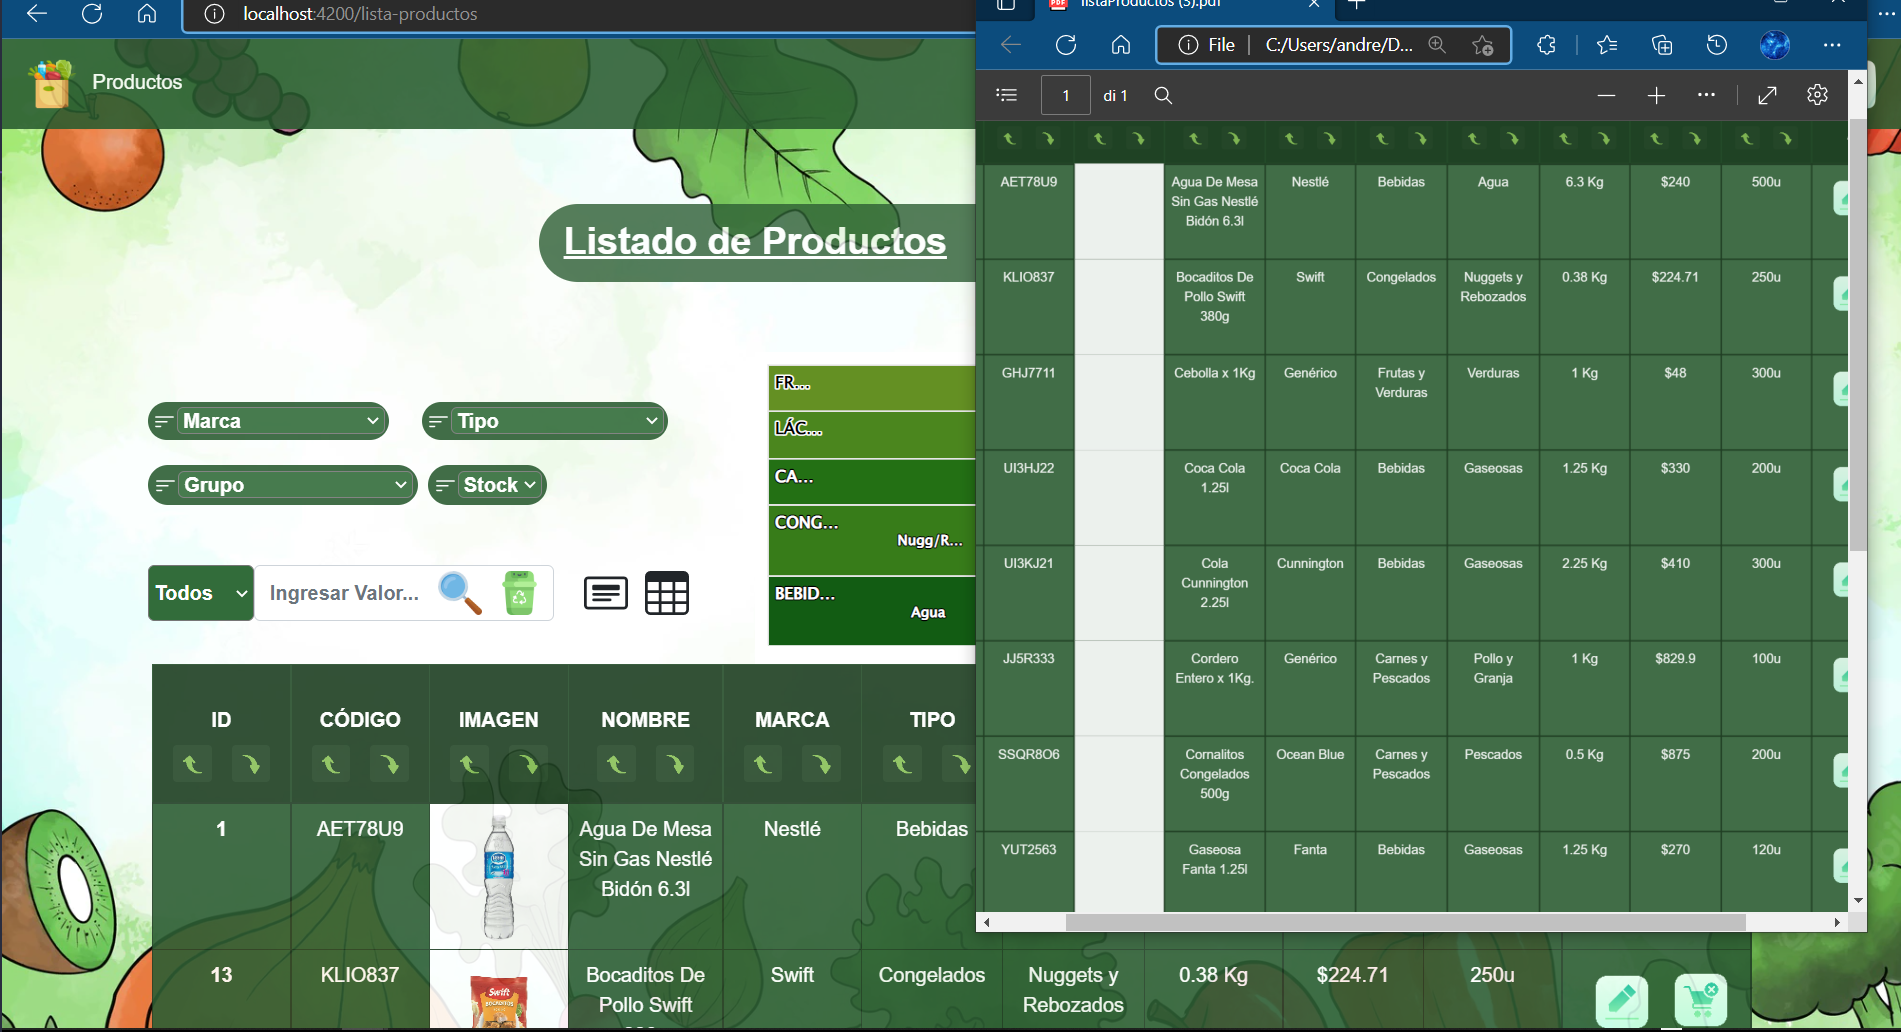
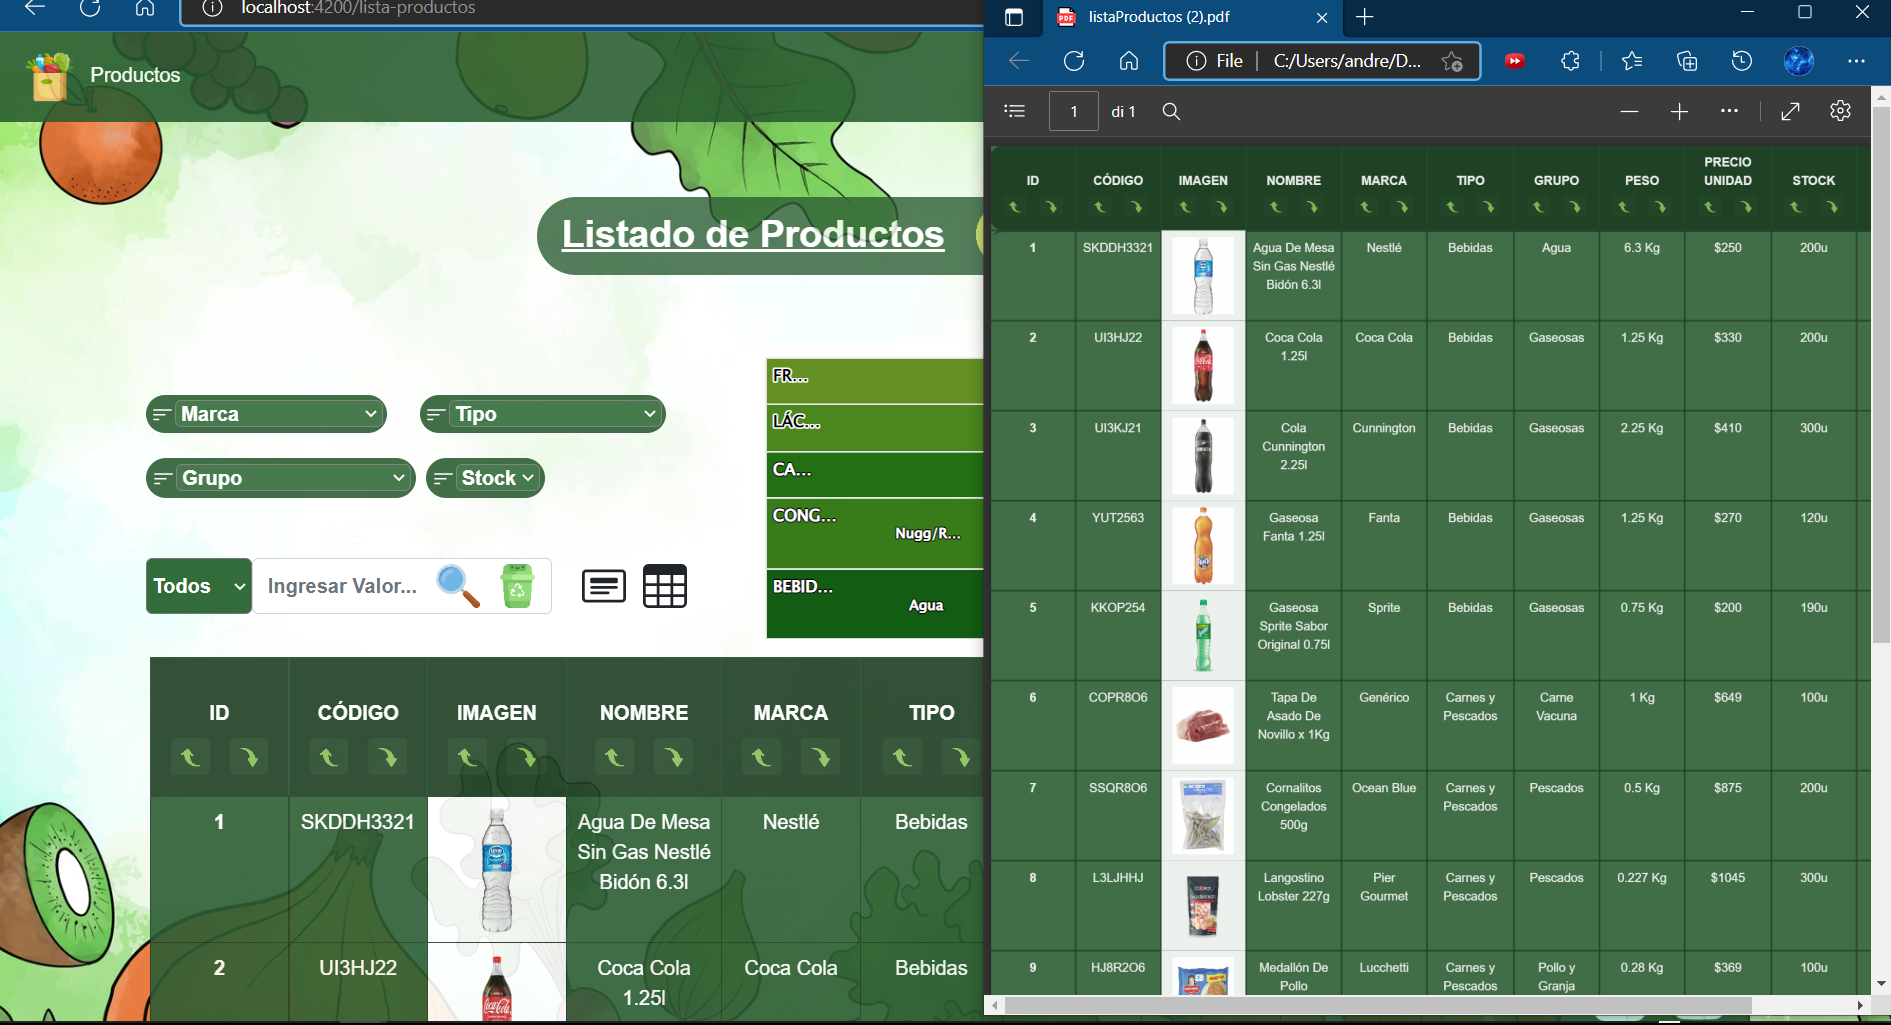
Update doc

diff --git a/src/app/pages/supermercado/lista-productos/lista-productos.component.ts b/src/app/pages/supermercado/lista-productos/lista-productos.component.ts
@@ -375,6 +375,10 @@ export class ListaProductosComponent implements OnInit {
     //Reemplazamos el campo accion por vacio
     XLSX.utils.sheet_add_aoa(worksheet, [['']], { origin: "K1" });
 
+
+    //Reemplazamos el campo imagenes por vacio
+    XLSX.utils.sheet_add_aoa(worksheet, [['']], { origin: "C1" });
+
     //Agregamos paginado
     XLSX.utils.sheet_add_aoa(worksheet, [['NRO PAGINA']], { origin: "L1" });
 
@@ -405,6 +409,9 @@ export class ListaProductosComponent implements OnInit {
      //Reemplazamos el campo accion por vacio
      XLSX.utils.sheet_add_aoa(worksheet, [['']], { origin: "K1" });
 
+        //Reemplazamos el campo imagenes por vacio
+    XLSX.utils.sheet_add_aoa(worksheet, [['']], { origin: "C1" });
+
      XLSX.utils.sheet_to_csv;
 
 
@@ -414,10 +421,22 @@ export class ListaProductosComponent implements OnInit {
    //============= GENERATE PDF ====================
    namePdf = 'listaProductos.pdf';
 
+
+
+
    generatePdf(): void {
+
+    //Admitimos img
+    const options = { logging: true, letterRendering: true, useCORS: true };
+
     let DATA: any = document.getElementById('table');
-    html2canvas(DATA).then((canvas) => {
+
+
+    html2canvas(DATA, options).then((canvas) => {
       let fileWidth = 208;
+
+
+
       let fileHeight = (canvas.height * fileWidth) / canvas.width;
       const FILEURI = canvas.toDataURL('image/png');
       let PDF = new jsPDF('p', 'mm', 'a4');

diff --git a/src/app/pages/supermercado/agregar-productos/agregar-productos.component.html b/src/app/pages/supermercado/agregar-productos/agregar-productos.component.html
@@ -162,9 +162,9 @@
                     <option value="Swift">- Swift</option>
                     <option value="Larclas">- Larclas</option>
                     <option value="Huella Natural">- Huella Natural</option>
-                    <option value="Huella Natural">- Cuesta del Madero</option>
+                    <option value="Cuesta del Madero">- Cuesta del Madero</option>
                     <option value="Sancor">- Sancor</option>
-                    <option value="Sancor">- Paso de los Toros</option>
+                    <option value="Paso de los Toros">- Paso de los Toros</option>
                     <option value="Coca Cola">- Coca Cola</option>
                     <option value="Genérico">- Genérico</option>
                   </select>

diff --git a/src/app/services/interceptors/productos/interceptors-productos.service.ts b/src/app/services/interceptors/productos/interceptors-productos.service.ts
@@ -77,6 +77,16 @@ export class InterceptorsProductosService implements HttpInterceptor {
               return next.handle(interceptRequest);
             })
           );
+        }else if(err.status == 422){
+
+          if((this.router.url == '/agregar-productos')
+          || (this.router.url == '/editar-productos')){
+
+            this.toastError('El Código debe ser único!!');
+          }else{
+            this.tokenService.logOut();
+          }
+
         } else {
 
           if(!(this.router.url == '/signin')
